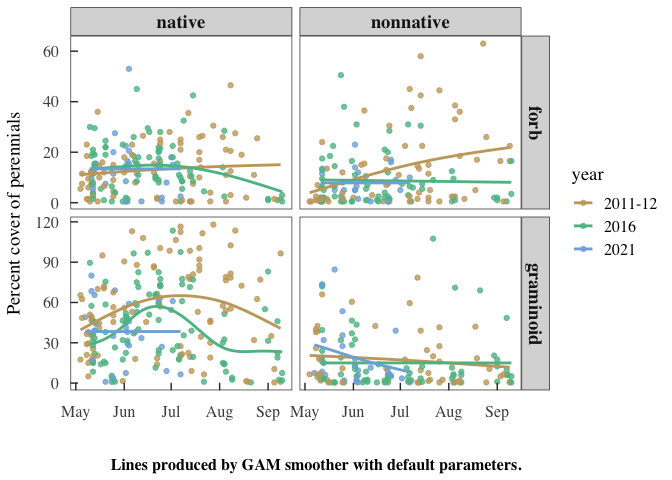
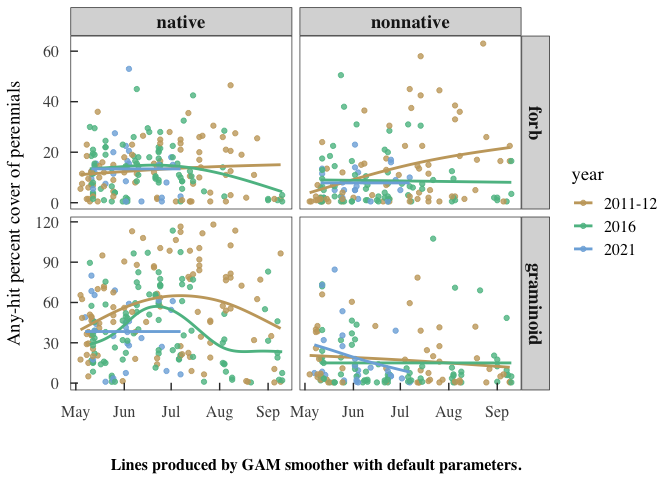
incremental save

Changed region(s): [[0.0, 0.1562, 0.0312, 0.7188]]

diff --git a/veg_cover_by_date.md b/veg_cover_by_date.md
@@ -10,7 +10,15 @@ Beau Larkin
     -   [API keys](#api-keys)
     -   [Global functions and styles:
         `theme_bgl`](#global-functions-and-styles-theme_bgl)
-    -   [Data](#data)
+-   [Data](#data)
+    -   [Survey metadata](#survey-metadata)
+    -   [Grid point metadata](#grid-point-metadata)
+    -   [Any-hit plant cover data](#any-hit-plant-cover-data)
+    -   [Top-hit plant cover data](#top-hit-plant-cover-data)
+    -   [Survey locations](#survey-locations)
+-   [Results](#results)
+    -   [Any-hit cover data](#any-hit-cover-data)
+    -   [Top-hit cover data](#top-hit-cover-data)
 
 # Description
 
@@ -50,9 +58,9 @@ available in the hosted environment. Code not shown here.
 source(paste0(getwd(), "/styles.txt"))
 ```
 
-## Data
+# Data
 
-Survey metadata
+## Survey metadata
 
 ``` r
 meta_sql <- 
@@ -65,7 +73,7 @@ meta_tb <- bq_table_download(meta_bq)
 meta_df <- as.data.frame(meta_tb)
 ```
 
-Grid point metadata
+## Grid point metadata
 
 ``` r
 gp_meta_sql <-
@@ -77,6 +85,8 @@ gp_meta_bq <- bq_project_query(billing, gp_meta_sql)
 gp_meta_tb <- bq_table_download(gp_meta_bq)
 gp_meta_df <- as.data.frame(gp_meta_tb)
 ```
+
+## Any-hit plant cover data
 
 Plant species and cover data from point-intercept surveys in 2011-12,
 2016, and 2021. Plant data are joined with survey metadata to filter the
@@ -94,7 +104,7 @@ cvr_sql <-
 cvr_bq <- bq_project_query(billing, cvr_sql)
 cvr_tb <- bq_table_download(cvr_bq)
 cvr_df <- 
-  as.data.frame(cvr_tb) %>% 
+  as.data.frame(cvr_tb) %>%
   filter(survey_sequence %in% c("2011-12", "2016", "2021"), 
          plant_native_status %in% c("native", "nonnative"), 
          plant_life_cycle %in% c("annual", "perennial"), 
@@ -106,6 +116,45 @@ cvr_df <-
   summarize(cvr_pct = sum(intercepts_pct), .groups = "drop")
 ```
 
+## Top-hit plant cover data
+
+``` r
+top_sql <-
+  "
+  SELECT *
+  FROM `mpg-data-warehouse.vegetation_gridVeg_summaries.gridVeg_foliar_cover_top`
+  "
+top_bq <- bq_project_query(billing, top_sql)
+top_tb <- bq_table_download(top_bq)
+top_df <- as.data.frame(top_tb) 
+```
+
+``` r
+spe_meta_sql <-
+  "
+  SELECT key_plant_species, key_plant_code, plant_native_status, plant_life_cycle, plant_life_form, plant_name_sci, plant_name_common
+  FROM `mpg-data-warehouse.vegetation_species_metadata.vegetation_species_metadata`
+  "
+spe_meta_bq <- bq_project_query(billing, spe_meta_sql)
+spe_meta_tb <- bq_table_download(spe_meta_bq)
+spe_meta_df <- as.data.frame(spe_meta_tb)
+```
+
+``` r
+top_cvr_df <- top_df %>% 
+  left_join(spe_meta_df, by = "key_plant_species") %>% 
+  left_join(meta_df %>% select(survey_ID, date), by = "survey_ID") %>% 
+  left_join(gp_meta_df %>% select(grid_point, type3_vegetation_indicators), by = "grid_point") %>% 
+  filter(survey_sequence %in% c("2011-12", "2016", "2021"), 
+         plant_native_status %in% c("native", "nonnative"), 
+         plant_life_cycle %in% c("annual", "perennial"), 
+         plant_life_form %in% c("forb", "graminoid"),
+         type3_vegetation_indicators == "uncultivated grassland native or degraded") %>% 
+  mutate(doy = yday(date)) %>% 
+  group_by(grid_point, survey_sequence, doy, plant_native_status, plant_life_cycle, plant_life_form) %>% 
+  summarize(top_cvr_pct = sum(top_intercepts_pct), .groups = "drop")
+```
+
 I examined point-intercept cover data from 2011-12, 2016, and 2021.
 These were years with the most extensive survey efforts. I filtered the
 data to include only points in uncultivated grassland to reduce the
@@ -115,7 +164,7 @@ exotic forage grass plantations, however. Very little signal and
 generally low cover was observed with annual plants (not shown), so they
 were filtered as well.
 
-### Survey locations
+## Survey locations
 
 The following map shows locations of points that appear at least once in
 this data set. The table after the map details the number of points
@@ -156,7 +205,9 @@ cvr_df %>%
 | 2016             |  98 |
 | 2021             |  29 |
 
-### Results
+# Results
+
+## Any-hit cover data
 
 Plant cover can vary substantially over a season, but this depends on
 the group of plants and the year. The 2011-12 season preceded several
@@ -174,6 +225,11 @@ grasses, which declined sharply. I suspect that this was driven more by
 a difference in species/locations surveyed that an actual decline in
 cover.
 
+In any case, variation in cover among locations is much greater than
+variation across the season. A shorter sampling season might be good for
+a number of reasons, but we shouldn’t worry much about using the data we
+already have.
+
 ``` r
 cvr_df %>% 
   filter(plant_life_cycle == "perennial") %>% 
@@ -181,10 +237,64 @@ cvr_df %>%
   facet_grid(cols = vars(plant_native_status), rows = vars(plant_life_form), scales = "free_y") +
   geom_point(aes(color = as.factor(survey_sequence)), alpha = 0.8) +
   geom_smooth(aes(color = as.factor(survey_sequence)), method = "gam", formula = y ~ s(x, bs = "cs"), se = FALSE) +
-  labs(x = "", y = "Percent cover of perennials", caption = "Lines produced by GAM smoother with default parameters.") +
+  labs(x = "", y = "Any-hit percent cover of perennials", caption = "Lines produced by GAM smoother with default parameters.") +
   scale_color_discrete_qualitative(name = "year", palette = "Harmonic") +
   scale_x_continuous(breaks = c(121, 152, 182, 213, 244), labels = c("May", "Jun", "Jul", "Aug","Sep")) +
   theme_bgl
 ```
 
 ![](veg_cover_by_date_files/figure-gfm/fig_seasonal_cover-1.png)<!-- -->
+
+``` r
+cvr_df %>% 
+  filter(plant_life_cycle == "perennial") %>% 
+  ggplot(., aes(x = survey_sequence, y = cvr_pct)) +
+  facet_grid(cols = vars(plant_native_status), rows = vars(plant_life_form), scales = "free_y") +
+  geom_boxplot(fill = "gray95") +
+  labs(x = "", y = "Any-hit percent cover of perennials") +
+  theme_bgl
+```
+
+![](veg_cover_by_date_files/figure-gfm/fig_average_cover-1.png)<!-- -->
+
+The previous analysis used all hits from the point-intercept data. It
+could be that top-cover would be more responsive to seasonal change, so
+let’s have a look at that here.
+
+## Top-hit cover data
+
+Restricting the plant data to top-hit only changes little of the overall
+pattern, except in most cases to flatten things out over the season.
+It’s possible this is because the largest-statured plants are most
+likely to be hit in top-cover, and these aren’t as responsive to
+seasonal change. The exception is with perennial native grasses. With
+any-hit data, the seasonal curve in 2011-12 is pronounced, but it is
+flat with top-hit data. Possibly 2011-12 was a wetter period and smaller
+grasses were expanding.
+
+``` r
+top_cvr_df %>% 
+  filter(plant_life_cycle == "perennial") %>% 
+  ggplot(., aes(x = doy, y = top_cvr_pct, group = survey_sequence)) +
+  facet_grid(cols = vars(plant_native_status), rows = vars(plant_life_form), scales = "free_y") +
+  geom_point(aes(color = as.factor(survey_sequence)), alpha = 0.8) +
+  geom_smooth(aes(color = as.factor(survey_sequence)), method = "gam", formula = y ~ s(x, bs = "cs"), se = FALSE) +
+  labs(x = "", y = "Top-hit percent cover of perennials", caption = "Lines produced by GAM smoother with default parameters.") +
+  scale_color_discrete_qualitative(name = "year", palette = "Harmonic") +
+  scale_x_continuous(breaks = c(121, 152, 182, 213, 244), labels = c("May", "Jun", "Jul", "Aug","Sep")) +
+  theme_bgl
+```
+
+![](veg_cover_by_date_files/figure-gfm/fig_seasonal_top_cover-1.png)<!-- -->
+
+``` r
+top_cvr_df %>% 
+  filter(plant_life_cycle == "perennial") %>% 
+  ggplot(., aes(x = survey_sequence, y = top_cvr_pct)) +
+  facet_grid(cols = vars(plant_native_status), rows = vars(plant_life_form), scales = "free_y") +
+  geom_boxplot(fill = "gray95") +
+  labs(x = "", y = "Top-hit percent cover of perennials") +
+  theme_bgl
+```
+
+![](veg_cover_by_date_files/figure-gfm/fig_top_average_cover-1.png)<!-- -->
